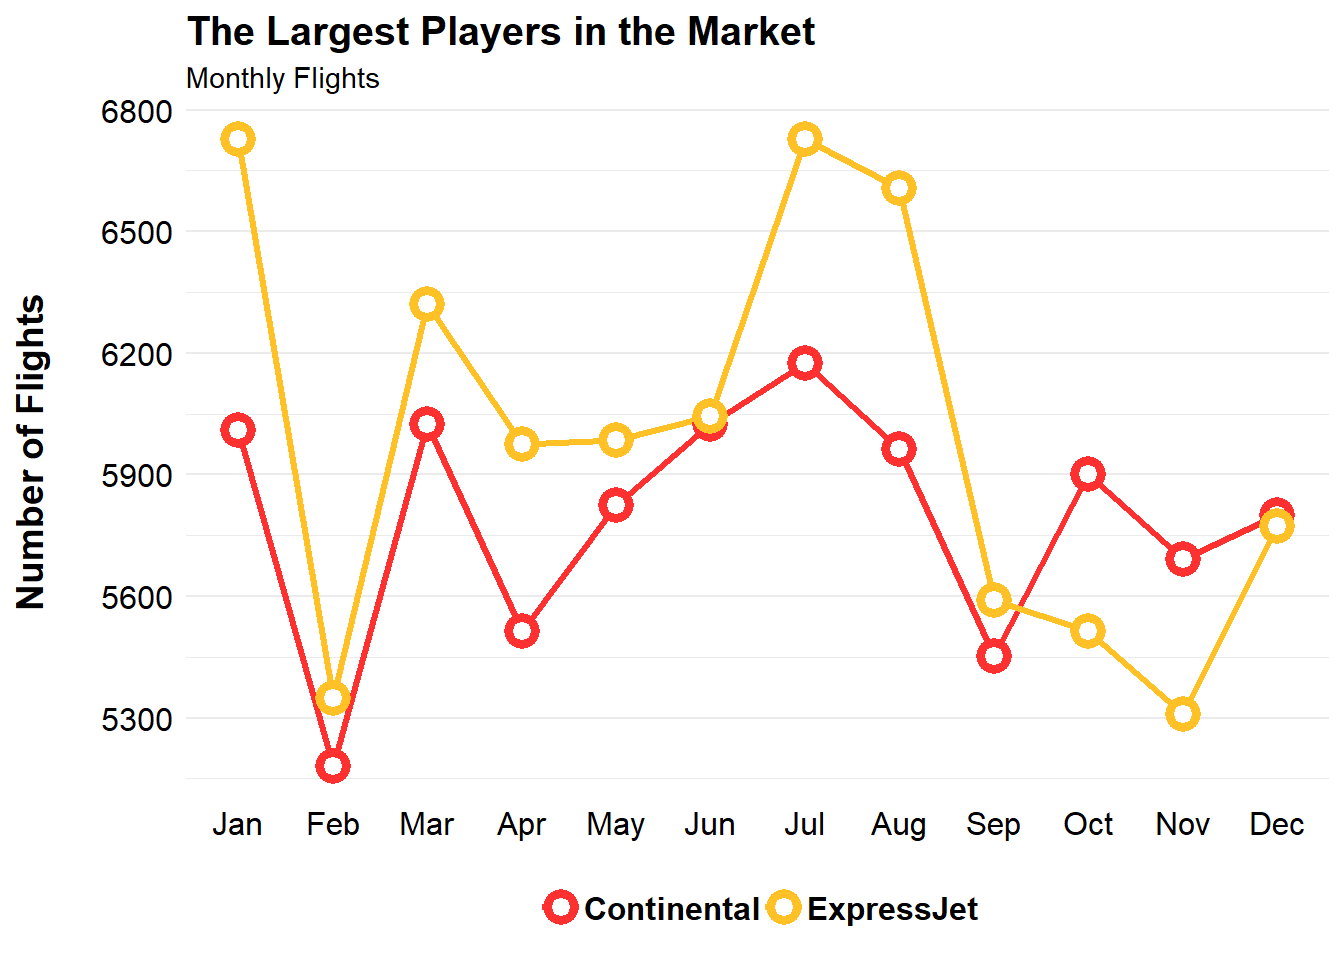
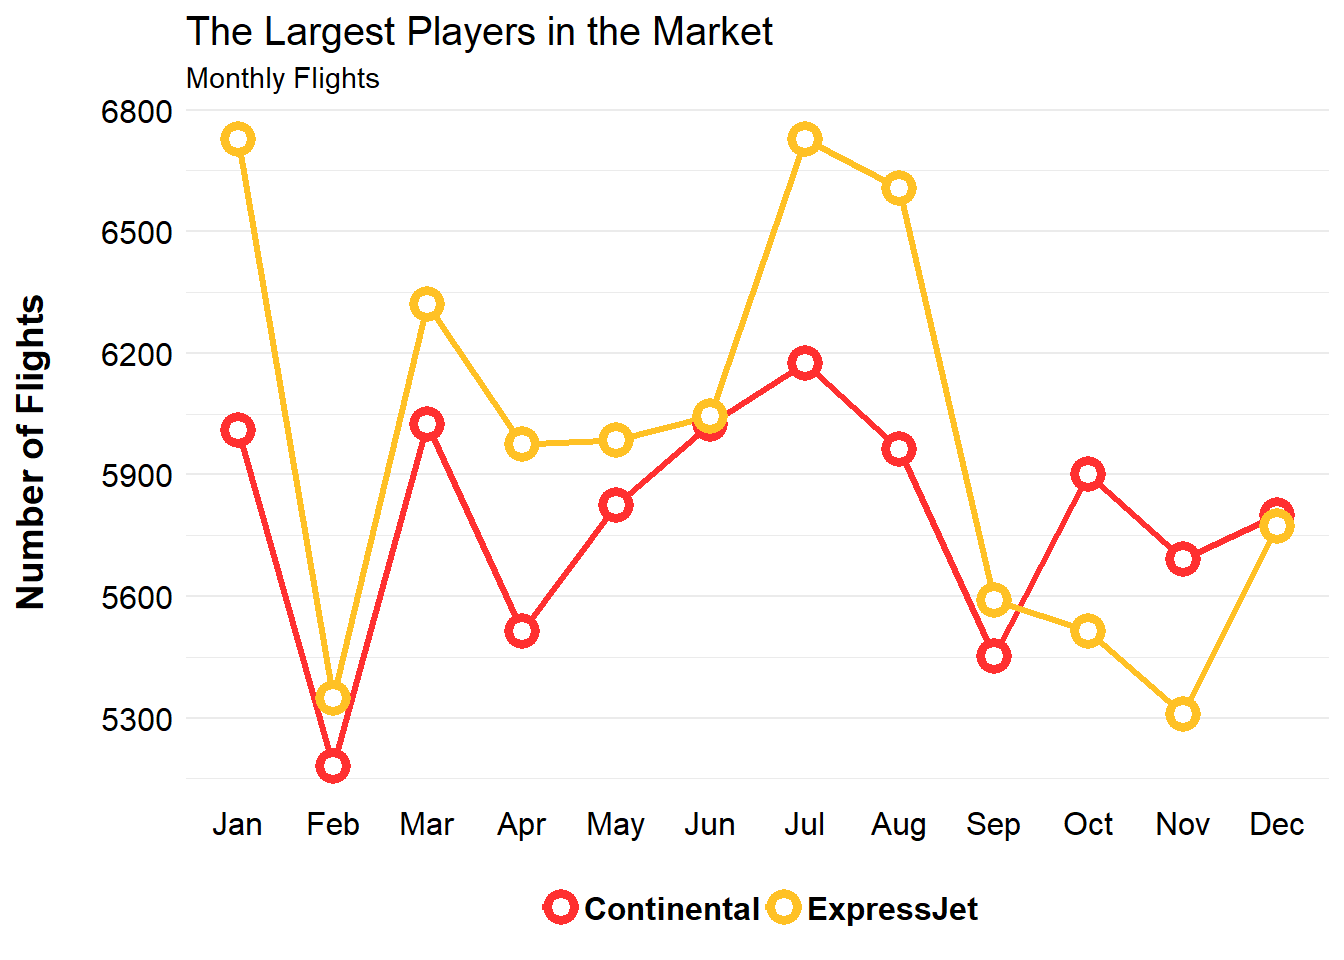
Initial Commit

Changed region(s): [[0.1562, 0.0, 0.625, 0.0625]]

diff --git a/content/post/2018-11-16-analysis-of-airlines-market-in-usa.html b/content/post/2018-11-16-analysis-of-airlines-market-in-usa.html
@@ -344,7 +344,7 @@ two_largest_monthly</code></pre>
   theme(legend.text = element_text(size= 12, face = &quot;bold&quot;, colour= &quot;black&quot;)) + 
   theme(legend.title = element_blank()) +
   labs(title = &quot;The Largest Players in the Market&quot;, subtitle = &quot;Monthly Flights&quot;) +
-  theme(plot.title = element_text(size = 15, colour = &quot;black&quot;, face = &quot;bold&quot;))</code></pre>
+  theme(plot.title = element_text(size = 15, colour = &quot;black&quot;))</code></pre>
 <p><img src="/post/2018-11-16-analysis-of-airlines-market-in-usa_files/figure-html/unnamed-chunk-11-1.png" width="672" /></p>
 </div>
 <div id="more-insights-ahead" class="section level2">

diff --git a/public/post/analysis-of-airlines-market-in-usa/index.html b/public/post/analysis-of-airlines-market-in-usa/index.html
@@ -417,7 +417,7 @@ two_largest_monthly</code></pre>
   theme(legend.text = element_text(size= 12, face = &quot;bold&quot;, colour= &quot;black&quot;)) + 
   theme(legend.title = element_blank()) +
   labs(title = &quot;The Largest Players in the Market&quot;, subtitle = &quot;Monthly Flights&quot;) +
-  theme(plot.title = element_text(size = 15, colour = &quot;black&quot;, face = &quot;bold&quot;))</code></pre>
+  theme(plot.title = element_text(size = 15, colour = &quot;black&quot;))</code></pre>
 <p><img src="/post/2018-11-16-analysis-of-airlines-market-in-usa_files/figure-html/unnamed-chunk-11-1.png" width="672" /></p>
 </div>
 <div id="more-insights-ahead" class="section level2">
